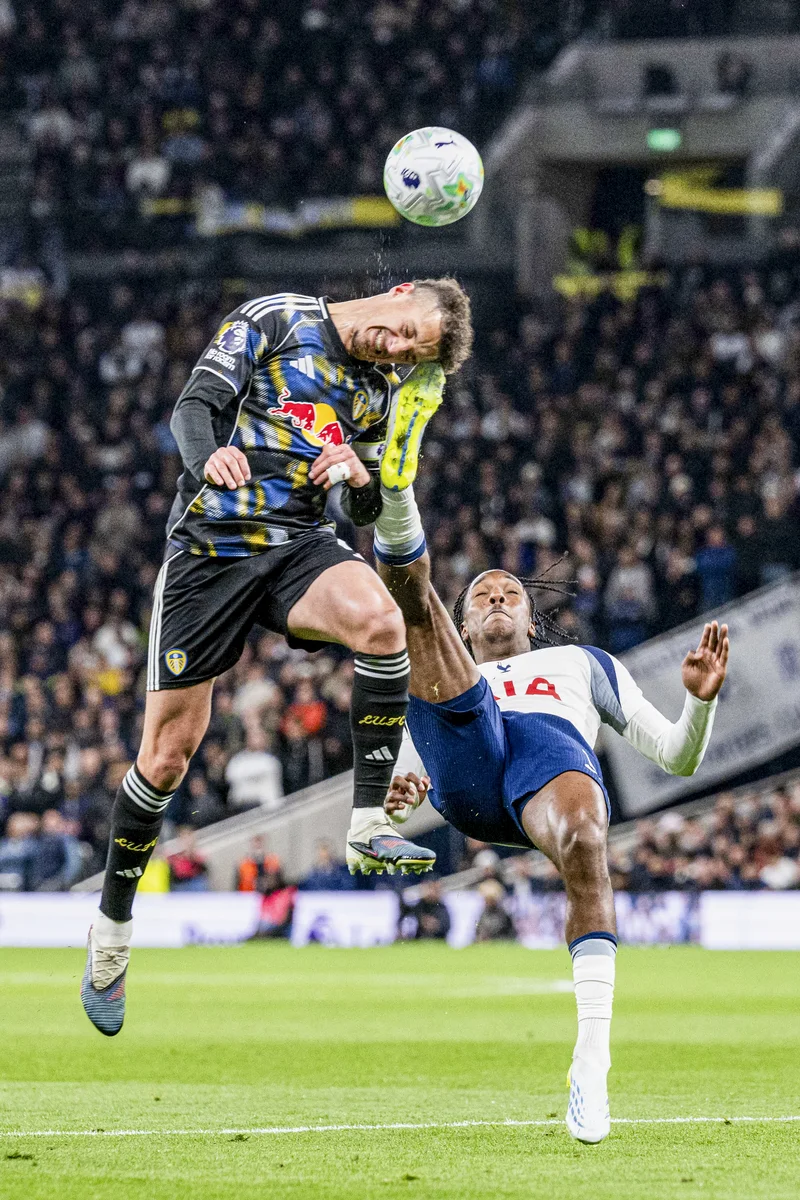
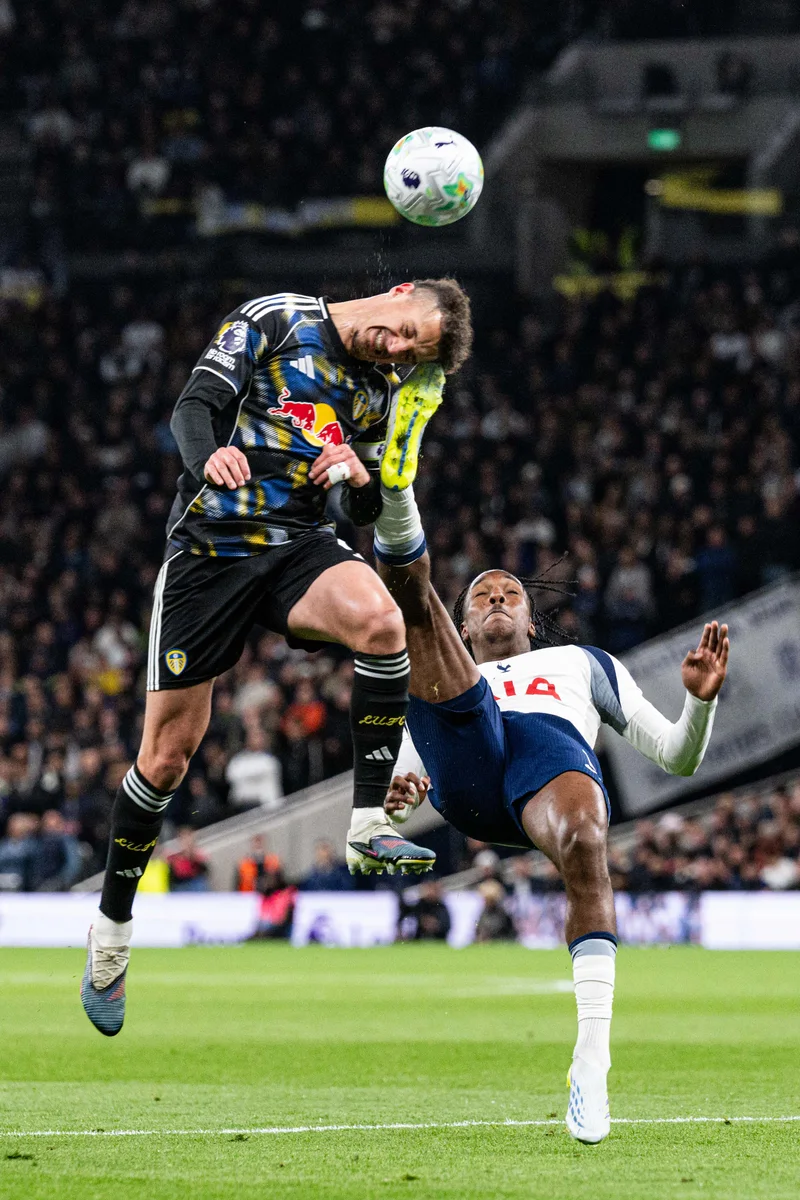
Add abbreviated month support to date parser, update photographers image

diff --git a/js/app.js b/js/app.js
@@ -110,7 +110,7 @@
 
   // ---- Parse date and title from gallery name ----
   // Names like "2026 Premier League Football Chelsea v Tottenham May 19th"
-  var MONTHS = 'January|February|March|April|May|June|July|August|September|October|November|December';
+  var MONTHS = 'January|February|March|April|May|June|July|August|September|October|November|December|Jan|Feb|Mar|Apr|Jun|Jul|Aug|Sep|Oct|Nov|Dec';
   var DATE_RE = new RegExp('^(\\d{4})\\s+(.+?)\\s+(' + MONTHS + ')\\s+(\\d{1,2})(?:st|nd|rd|th)?\\s*$', 'i');
 
   function parseGalleryInfo(name) {
